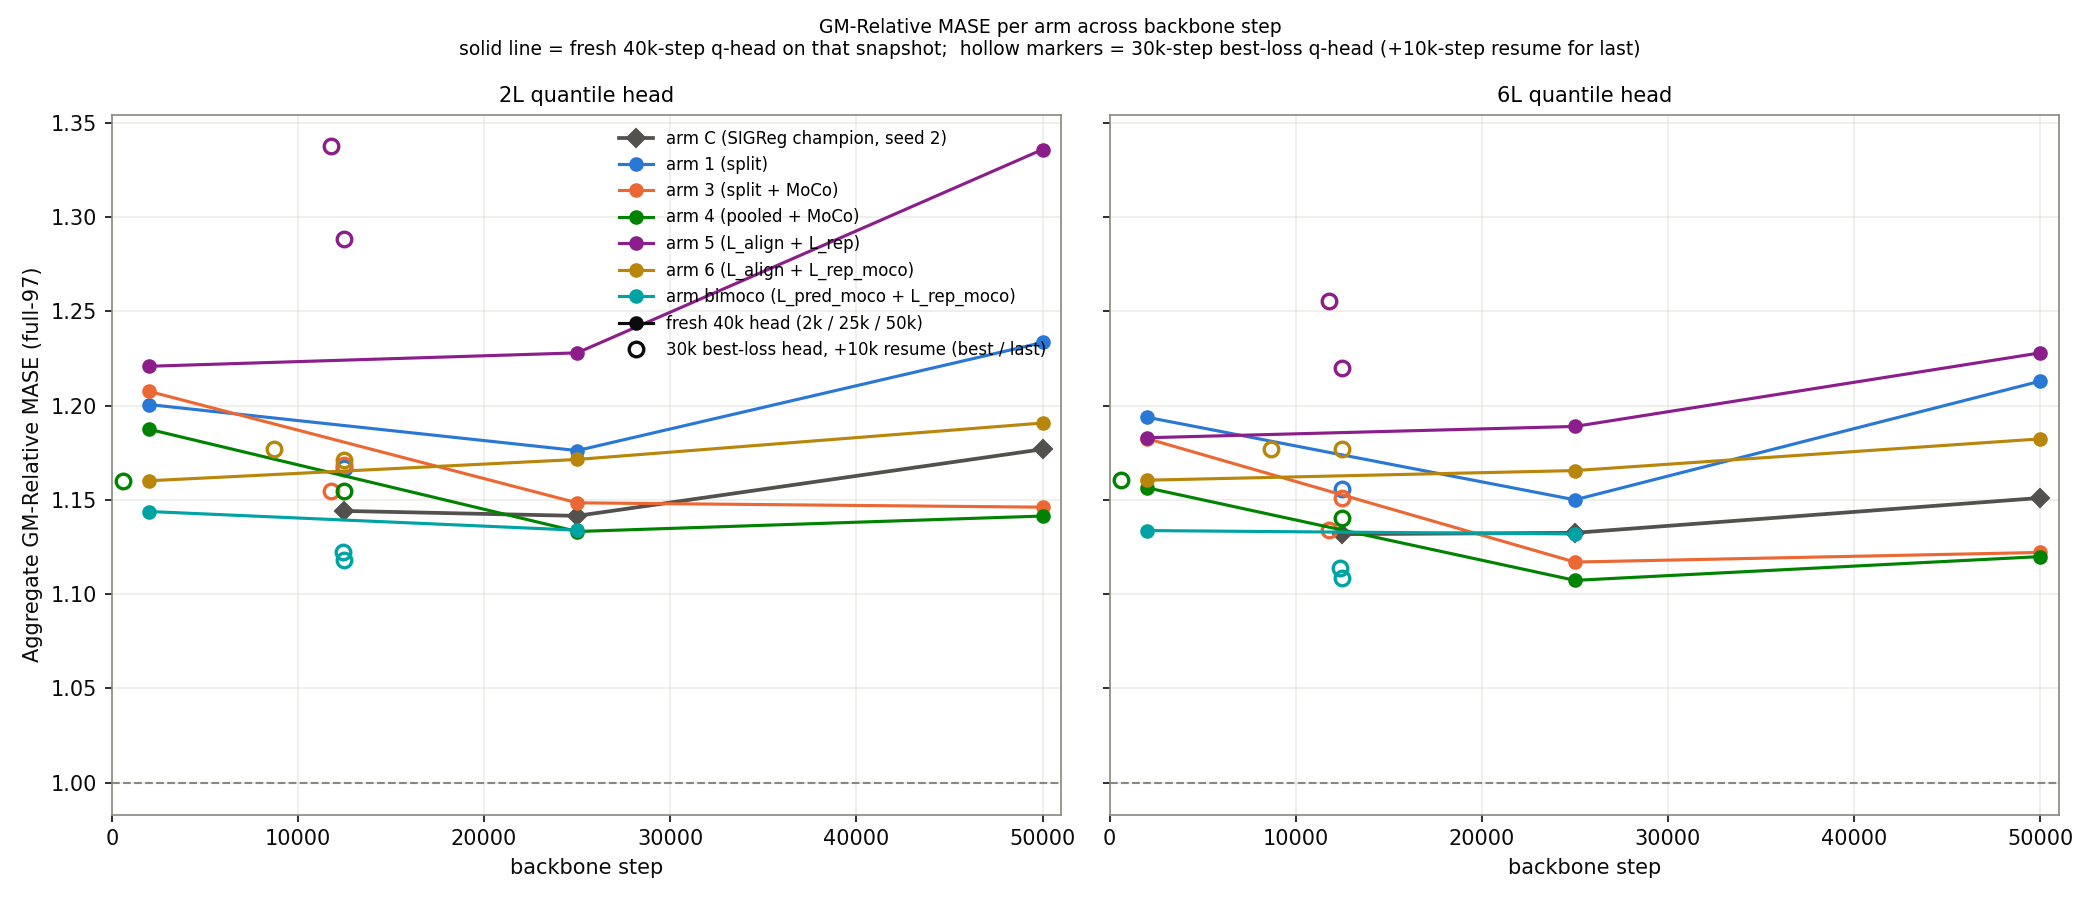
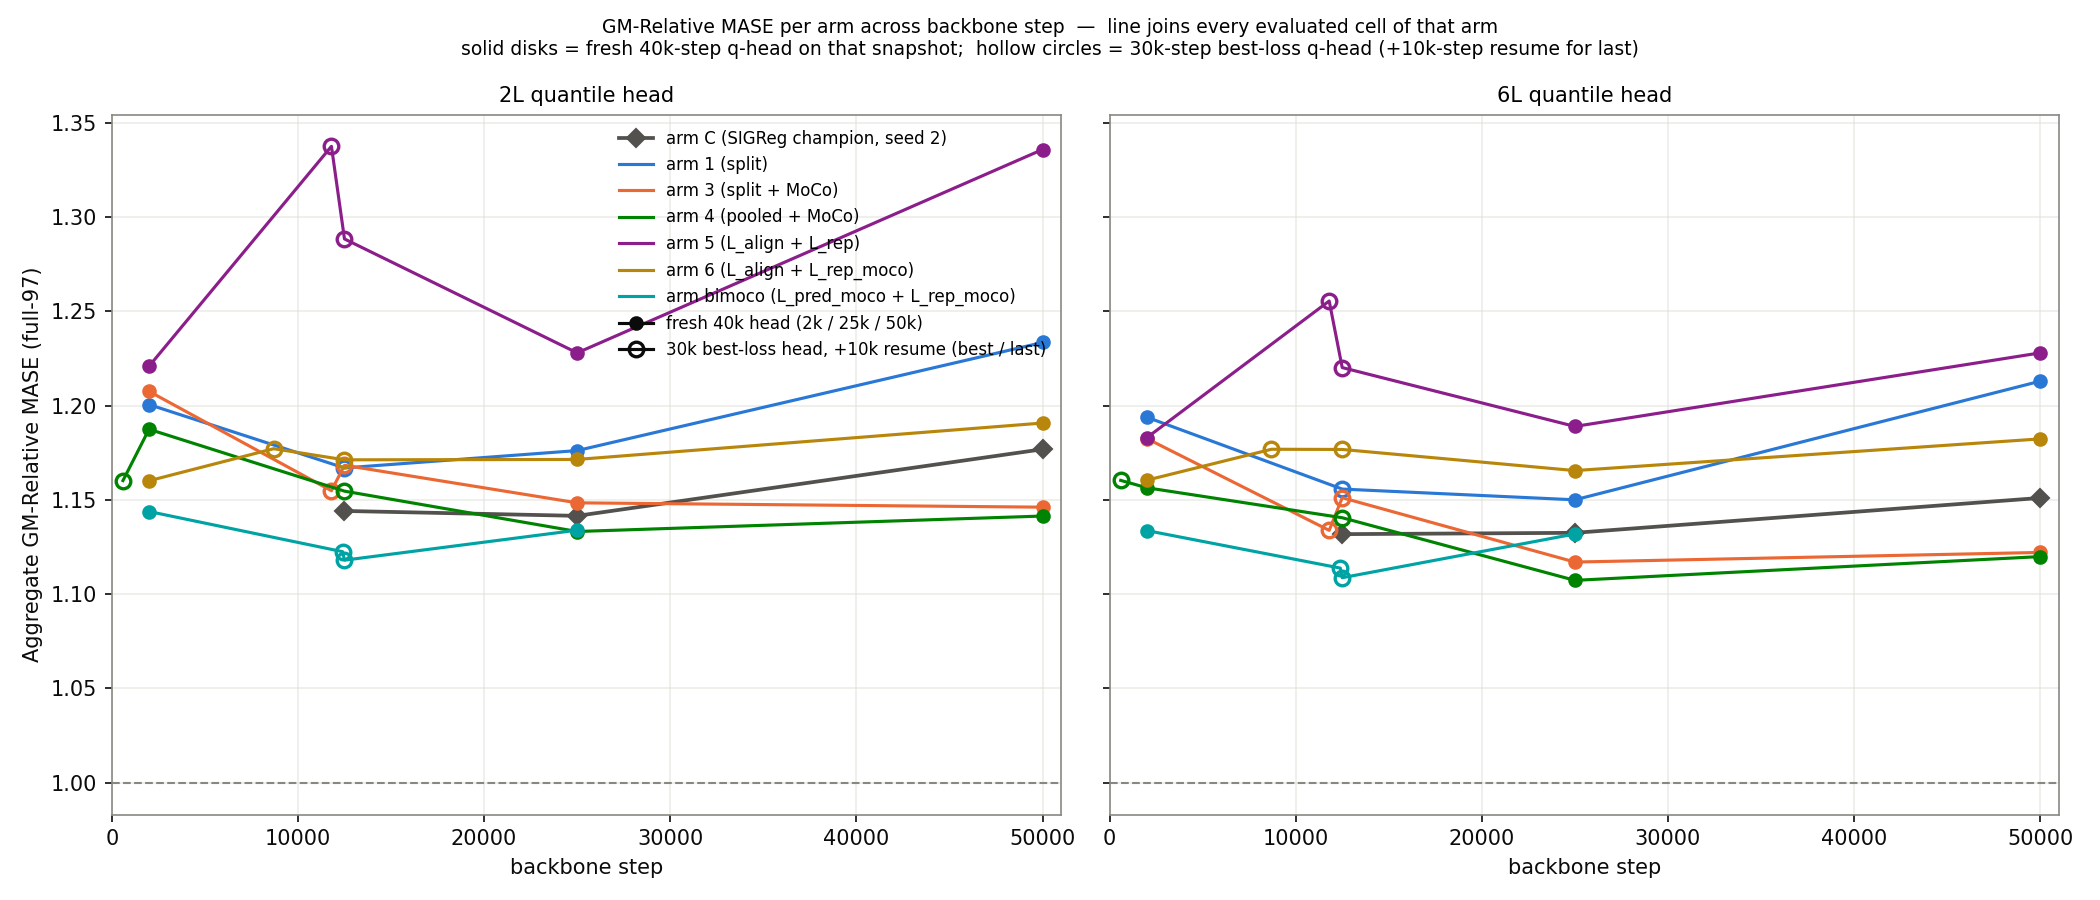
report(#374): connect hollow markers into trajectory line, add ff-vs-GM alignment figure
Trajectory figure (`gm_curve_per_arm.png`): each sibling arm now has
one line joining every evaluated cell across backbone step. The
head-protocol distinction stays visible through marker shape only —
solid disks for fresh 40k-step head cells (2k / 25k / 50k), hollow
circles for 30k-step best-loss head cells (best / last). Previously
the two protocols were plotted as an unconnected marker set, which
hid the trajectory that runs through them.

New figure `ff_vs_gm_snapshots.png` (`plots/_make_ff_vs_gm.py`): per
arm, two stacked rectangles sharing the x-axis. Top rectangle plots
`1 − ff` during training (positive-pair cosine similarity, common
diagnostic across arms). Bottom rectangle plots the evaluated
GM-Relative MASE at each snapshot backbone step, 2L on a dotted line,
6L on a dashed line. Vertical guides tie the training-time reading
to the downstream reading at the same step.

Placed alongside the loss-vs-GM figure in `## Result`; captions
updated. The loss figure is kept because raw `loss` is closer to what
each arm actually optimises.

Claude-Session: https://claude.ai/code/session_01KcDkyfSzqVuepLoz8Ph9bA

diff --git a/reports/2026-07-10_split_pred_rep/plots/_make_ff_vs_gm.py b/reports/2026-07-10_split_pred_rep/plots/_make_ff_vs_gm.py
@@ -1,0 +1,169 @@
+"""1 - `ff` retrieval error aligned with downstream GM-Relative MASE, per arm.
+
+For each arm, two stacked panels sharing the x-axis (backbone step):
+  * top    — 1 - ff during training (100-step rolling mean of the losses
+             CSV column `ff` = cos(f_hat, f_true)); lower is better
+  * bottom — evaluated GM-Relative MASE snapshots (2L = circles + thin
+             dotted line, 6L = triangles + thin dashed line); lower is
+             better
+
+Vertical guides at each evaluated backbone step tie top-panel training
+signal to bottom-panel downstream aggregate at the same step.
+
+6 arms → 4 rows × 3 cols of panels (each column is one arm; each pair
+of rows is [1-ff, GM]).
+"""
+from __future__ import annotations
+
+import re
+from pathlib import Path
+
+import matplotlib.pyplot as plt
+import pandas as pd
+from matplotlib.gridspec import GridSpec
+from matplotlib.lines import Line2D
+
+HERE = Path(__file__).parent
+ROOT = HERE.parent.parent.parent
+EXP = ROOT / "experiments" / "2026-07-10_split_pred_rep"
+
+C_ARM1, C_ARM3, C_ARM4 = "#2a78d6", "#eb6834", "#008300"
+C_ARM5, C_ARM6, C_BIMOCO = "#8b1e8b", "#b8860b", "#00a3a3"
+INK, MUTED, GRID = "#0b0b0b", "#898781", "#e1e0d9"
+plt.rcParams.update({
+    "figure.dpi": 150, "savefig.dpi": 150, "font.size": 9,
+    "axes.edgecolor": MUTED, "axes.labelcolor": INK,
+    "xtick.color": INK, "ytick.color": INK,
+})
+
+# (label, colour, results-dir, eval base name, best_step,
+#  runs-dir, [(losses file, step offset), ...]).
+ARMS = [
+    ("arm 1 (split)", C_ARM1, "results",
+     "gift_eval_full_split_pred_rep_xftrip_nobn_enc3_emateach_sigreg_qk_aon_b512_cpc_tau090",
+     12500, "runs", [
+         ("bb_split_pred_rep_xftrip_nobn_enc3_emateach_sigreg_qk_aon_b512_cpc_tau090_losses_full.csv", 0),
+         ("bb_split_pred_rep_xftrip_nobn_enc3_emateach_sigreg_qk_aon_b512_cpc_tau090_r2_losses.csv", 0),
+         ("bb_split_pred_rep_xftrip_nobn_enc3_emateach_sigreg_qk_aon_b512_cpc_tau090_r3_losses.csv", 0),
+     ]),
+    ("arm 3 (split + MoCo)", C_ARM3, "results",
+     "gift_eval_full_split_pred_rep_moco_xftrip_nobn_enc3_emateach_sigreg_qk_aon_b512_cpc_tau090",
+     11800, "runs", [
+         ("bb_split_pred_rep_moco_xftrip_nobn_enc3_emateach_sigreg_qk_aon_b512_cpc_tau090_losses.csv", 0),
+         ("bb_split_pred_rep_moco_xftrip_nobn_enc3_emateach_sigreg_qk_aon_b512_cpc_tau090_ext25k_losses.csv", 12500),
+         ("bb_split_pred_rep_moco_xftrip_nobn_enc3_emateach_sigreg_qk_aon_b512_cpc_tau090_r3_losses.csv", 12500),
+     ]),
+    ("arm 4 (pooled + MoCo)", C_ARM4, "results_arm4",
+     "gift_eval_full_allt08_moco_xftrip_nobn_enc3_emateach_sigreg_qk_aon_b512_cpc_arm4_tau090",
+     600, "runs_arm4", [
+         ("bb_allt08_moco_xftrip_nobn_enc3_emateach_sigreg_qk_aon_b512_cpc_arm4_tau090_losses.csv", 0),
+         ("bb_allt08_moco_xftrip_nobn_enc3_emateach_sigreg_qk_aon_b512_cpc_arm4_tau090_r2_losses.csv", 0),
+         ("bb_allt08_moco_xftrip_nobn_enc3_emateach_sigreg_qk_aon_b512_cpc_arm4_tau090_r3_losses.csv", 0),
+     ]),
+    ("arm 5 (L_align + L_rep)", C_ARM5, "results_arm5",
+     "gift_eval_full_lalign_xftrip_nobn_enc3_emateach_sigreg_qk_aon_b512_cpc_arm5_tau090",
+     11800, "runs_arm5", [
+         ("bb_lalign_xftrip_nobn_enc3_emateach_sigreg_qk_aon_b512_cpc_arm5_tau090_losses.csv", 0),
+         ("bb_lalign_xftrip_nobn_enc3_emateach_sigreg_qk_aon_b512_cpc_arm5_tau090_r2_losses.csv", 0),
+         ("bb_lalign_xftrip_nobn_enc3_emateach_sigreg_qk_aon_b512_cpc_arm5_tau090_r3_losses.csv", 0),
+     ]),
+    ("arm 6 (L_align + L_rep_moco)", C_ARM6, "results_arm6_v2",
+     "gift_eval_full_lalign_lrepmoco_xftrip_nobn_enc3_emateach_sigreg_qk_aon_b512_cpc_arm6v2_tau090",
+     8700, "runs_arm6_v2", [
+         ("bb_lalign_lrepmoco_xftrip_nobn_enc3_emateach_sigreg_qk_aon_b512_cpc_arm6v2_tau090_losses.csv", 0),
+         ("bb_lalign_lrepmoco_xftrip_nobn_enc3_emateach_sigreg_qk_aon_b512_cpc_arm6v2_tau090_r2_losses.csv", 0),
+         ("bb_lalign_lrepmoco_xftrip_nobn_enc3_emateach_sigreg_qk_aon_b512_cpc_arm6v2_tau090_r3_losses.csv", 0),
+     ]),
+    ("arm bimoco (L_pred_moco + L_rep_moco)", C_BIMOCO, "results_bimoco_v2",
+     "gift_eval_full_split_pred_rep_bimoco_v2_xftrip_nobn_enc3_emateach_sigreg_qk_aon_b512_cpc_tau090",
+     12400, "runs_bimoco_v2", [
+         ("bb_split_pred_rep_bimoco_v2_xftrip_nobn_enc3_emateach_sigreg_qk_aon_b512_cpc_tau090_losses.csv", 0),
+         ("bb_split_pred_rep_bimoco_v2_xftrip_nobn_enc3_emateach_sigreg_qk_aon_b512_cpc_tau090_r2_losses.csv", 0),
+     ]),
+]
+
+MARKER = {"2L": "o", "6L": "^"}
+LINESTYLE = {"2L": ":", "6L": "--"}
+
+
+def gm(path: Path) -> float | None:
+    if not path.exists():
+        return None
+    m = re.search(r"Aggregate GM-Relative MASE.*?([0-9]+\.[0-9]+)", path.read_text())
+    return float(m.group(1)) if m else None
+
+
+def ff_curve(runs_dir: str, segments) -> pd.DataFrame:
+    frames = []
+    for name, offset in segments:
+        p = EXP / runs_dir / name
+        if not p.exists():
+            continue
+        d = pd.read_csv(p, usecols=["step", "ff"])
+        d = d.dropna(subset=["ff"])
+        if not len(d):
+            continue
+        d["step"] = d["step"] + offset
+        frames.append(d)
+    out = pd.concat(frames).sort_values("step").drop_duplicates("step", keep="last")
+    out["one_minus_ff"] = 1.0 - out["ff"].rolling(100, min_periods=1).mean()
+    return out
+
+
+fig = plt.figure(figsize=(15.5, 9.0))
+gs = GridSpec(4, 3, figure=fig,
+              height_ratios=[3, 2, 3, 2], hspace=0.05, wspace=0.28)
+axes_ff = []
+axes_gm = []
+for i, (label, colour, rd, base, best_step, runs_dir, segs) in enumerate(ARMS):
+    row_pair, col = divmod(i, 3)
+    top = fig.add_subplot(gs[row_pair * 2, col])
+    bot = fig.add_subplot(gs[row_pair * 2 + 1, col], sharex=top)
+    axes_ff.append(top)
+    axes_gm.append(bot)
+
+    curve = ff_curve(runs_dir, segs)
+    top.plot(curve["step"], curve["one_minus_ff"], color=colour, lw=1.3)
+    top.set_title(label, fontsize=9, color=colour)
+    top.set_ylabel("1 − ff\n(100-step mean)", fontsize=8)
+    top.grid(True, color=GRID, alpha=0.6)
+    top.set_xlim(0, 51000)
+    top.tick_params(axis="x", labelbottom=False)
+
+    for HL in ("2L", "6L"):
+        pts = []
+        for step, suffix in ((2000, "_2k"), (best_step, ""), (12500, "_last"),
+                             (25000, "_25k"), (50000, "_50k")):
+            val = gm(EXP / rd / (base + suffix + f"_{HL}") / "summary.txt")
+            if val is not None:
+                pts.append((step, val))
+        pts = sorted({s: v for s, v in pts}.items())
+        if not pts:
+            continue
+        xs, ys = zip(*pts)
+        bot.plot(xs, ys, color=INK, lw=1.3, ls=LINESTYLE[HL], marker=MARKER[HL],
+                 markersize=6.5, markerfacecolor="none", markeredgewidth=1.3)
+        for x in xs:
+            top.axvline(x, color=MUTED, lw=0.5, ls=":", alpha=0.6)
+            bot.axvline(x, color=MUTED, lw=0.5, ls=":", alpha=0.6)
+    bot.set_ylim(1.09, 1.35)
+    bot.set_ylabel("GM-Relative MASE", fontsize=8)
+    bot.grid(True, color=GRID, alpha=0.6)
+    if row_pair == 1:
+        bot.set_xlabel("backbone step", fontsize=9)
+
+fig.legend(handles=[
+    Line2D([], [], color=INK, lw=1.3, label="1 − ff during training (top of each pair)"),
+    Line2D([], [], color=INK, lw=0.7, ls=":", marker="o", markerfacecolor="none",
+           markeredgewidth=1.3, label="GM-Relative MASE, 2L head"),
+    Line2D([], [], color=INK, lw=0.7, ls="--", marker="^", markerfacecolor="none",
+           markeredgewidth=1.3, label="GM-Relative MASE, 6L head"),
+], loc="lower center", ncol=3, fontsize=8.5, frameon=False)
+fig.suptitle(
+    "Training-time retrieval error (1 − ff) aligned with evaluated GM-Relative MASE snapshots, per arm\n"
+    "top of each pair = training signal (lower better); bottom = downstream aggregate at that backbone step (lower better)",
+    fontsize=9)
+fig.tight_layout(rect=(0, 0.045, 1, 0.96))
+out = HERE / "ff_vs_gm_snapshots.png"
+fig.savefig(out)
+print(f"wrote {out}")

diff --git a/reports/2026-07-10_split_pred_rep/plots/_make_gm_curves.py b/reports/2026-07-10_split_pred_rep/plots/_make_gm_curves.py
@@ -82,26 +82,33 @@ for i, HL in enumerate(("2L", "6L")):
             (25000, "_25k"),
             (50000, "_50k"),
         ]
-        # Head protocol differs: 2k/25k/50k = fresh 40k head (connected line);
-        # best/last = 30k best-loss head (+10k resume) — hollow, unconnected.
-        fresh, resumed = [], []
+        # Head protocol differs: 2k/25k/50k = fresh 40k head; best/last =
+        # 30k best-loss head (+10k resume). Marker shape (solid disk vs hollow
+        # circle) carries that distinction; a single per-arm trajectory line
+        # joins every evaluated cell so the reader can follow the arm's
+        # downstream quality across backbone step.
+        fresh, resumed = {}, {}
         for step, suffix in candidates:
             val = gm(EXP / rd / (base + suffix + f"_{HL}") / "summary.txt")
             if val is None:
                 continue
-            (fresh if suffix in ("_2k", "_25k", "_50k") else resumed).append((step, val))
-        # dedupe on step (arm 1's best == last since FINAL.pth md5 = final.pth)
-        fresh = sorted({s: v for s, v in fresh}.items())
-        resumed = sorted({s: v for s, v in resumed}.items())
+            (fresh if suffix in ("_2k", "_25k", "_50k") else resumed)[step] = val
+        # Combined trajectory (dedup: fresh wins if both protocols land at
+        # the same backbone step — e.g. arm 1 `last`==step-12,500).
+        combined = dict(resumed); combined.update(fresh)
+        combined = sorted(combined.items())
+        if not combined:
+            continue
+        xs, ys = zip(*combined)
+        ax.plot(xs, ys, color=colour, lw=1.5, label=label)
+        # Solid disks for fresh-head cells, hollow circles for resumed-head cells.
         if fresh:
-            xs, ys = zip(*fresh)
-            ax.plot(xs, ys, color=colour, lw=1.5, marker="o", markersize=6,
-                    label=label)
+            fx, fy = zip(*sorted(fresh.items()))
+            ax.plot(fx, fy, color=colour, lw=0, marker="o", markersize=6)
         if resumed:
-            xs, ys = zip(*resumed)
-            ax.plot(xs, ys, color=colour, lw=0, marker="o", markersize=7,
-                    markerfacecolor="none", markeredgewidth=1.6,
-                    label=None if fresh else label)
+            rx, ry = zip(*sorted(resumed.items()))
+            ax.plot(rx, ry, color=colour, lw=0, marker="o", markersize=7,
+                    markerfacecolor="none", markeredgewidth=1.6)
     ax.axhline(1.0, color=MUTED, lw=1.0, ls="--")
     ax.set_xlabel("backbone step")
     ax.set_title(f"{HL} quantile head", fontsize=10)
@@ -114,15 +121,15 @@ handles, labels = axes[0].get_legend_handles_labels()
 handles += [
     Line2D([], [], color=INK, lw=1.5, marker="o", markersize=6,
            label="fresh 40k head (2k / 25k / 50k)"),
-    Line2D([], [], color=INK, lw=0, marker="o", markersize=7,
+    Line2D([], [], color=INK, lw=1.5, marker="o", markersize=7,
            markerfacecolor="none", markeredgewidth=1.6,
            label="30k best-loss head, +10k resume (best / last)"),
 ]
 axes[0].legend(handles=handles, loc="upper right", fontsize=8, frameon=False)
 fig.suptitle(
-    "GM-Relative MASE per arm across backbone step\n"
-    "solid line = fresh 40k-step q-head on that snapshot;  "
-    "hollow markers = 30k-step best-loss q-head (+10k-step resume for last)",
+    "GM-Relative MASE per arm across backbone step  —  line joins every evaluated cell of that arm\n"
+    "solid disks = fresh 40k-step q-head on that snapshot;  "
+    "hollow circles = 30k-step best-loss q-head (+10k-step resume for last)",
     fontsize=9)
 fig.tight_layout()
 out = HERE / "gm_curve_per_arm.png"

diff --git a/reports/2026-07-10_split_pred_rep/split_pred_rep.md b/reports/2026-07-10_split_pred_rep/split_pred_rep.md
@@ -18,11 +18,15 @@ One further caution: on the two arm-4 `best` rows the compared backbones are 11,
 
 ![GM-Relative MASE per arm across backbone step](plots/gm_curve_per_arm.png)
 
-*GM-Relative MASE per arm across backbone step, on a shared y-axis. Arm C — the SIGReg champion recipe — is plotted as a solid dark-grey curve with diamond markers at its evaluated snapshots (step 12,500 / 25,000 / 50,000, seed-2 retrain). The six sibling arms use two marker styles from two head protocols, so those two styles are not connected: the solid line joins the 2k / 25k / 50k cells, each a fresh 40k-step head on that snapshot; the hollow markers are the `best` and `last` cells, which use a 30k-step best-loss head, resumed a further 10k steps for `last`. Curves are drawn only through the cells that exist, and not every arm is evaluated at every step — bimoco has no 50,000-step cell, so its curve stops at 25,000 rather than declining. Digits in the trajectory annex.*
+*GM-Relative MASE per arm across backbone step, on a shared y-axis. Arm C — the SIGReg champion recipe — is plotted as a solid dark-grey curve with diamond markers at its evaluated snapshots (step 12,500 / 25,000 / 50,000, seed-2 retrain). For each sibling arm one line joins every evaluated cell of that arm across backbone step; marker shape marks the head protocol on that cell (solid disks = fresh 40k-step head, used for 2k / 25k / 50k; hollow circles = 30k-step best-loss head, used for `best` and `last`, resumed a further 10k steps for `last`). Not every arm is evaluated at every step: bimoco has no 50,000-step cell, so its line stops at 25,000. Digits in the trajectory annex.*
 
 ![Backbone training loss aligned with evaluated GM-Relative MASE snapshots](plots/loss_vs_gm_snapshots.png)
 
 *Backbone training loss on the left axis, as a 100-step rolling mean concatenated across the 1–12,500, 12,500–25,000 and 25,000–50,000 training segments. The right axis carries the arm's evaluated GM-Relative MASE cells: 2L as circles on a thin dotted line, 6L as triangles on a thin dashed line. A vertical guide marks each evaluated backbone step. `loss` is not comparable across arms, because the arms optimise different loss shapes, different negative counts, and in arm 4 a subtracted contrastive floor. Each panel is therefore read within itself. Sources in the trajectory annex and `plots/_make_loss_vs_gm.py`.*
+
+![Retrieval error (1 − ff) aligned with evaluated GM-Relative MASE snapshots, per arm](plots/ff_vs_gm_snapshots.png)
+
+*Same alignment as the previous figure, but with `1 − ff` in the top rectangle instead of the training loss, and the downstream GM-Relative MASE at each snapshot step in the bottom rectangle (shared x-axis per arm). `ff = cos(f̂_t, f_true_{t+1})` is the training-time positive-pair cosine similarity, read from the `ff` column of each arm's losses CSV. Unlike raw `loss`, `1 − ff` is a common training-time diagnostic on the same numeric scale for every arm; interpretation still differs (arms 1, 3, 4, bimoco push it down through InfoNCE on that pair, arm 5 through BYOL alignment, arm 6 through BYOL alignment with teacher-side representation-side MoCo). 2L cells are circles on a thin dotted line, 6L cells triangles on a thin dashed line. Sources in the trajectory annex and `plots/_make_ff_vs_gm.py`.*
 
 ### 12,500-step cells
 
